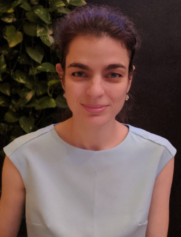
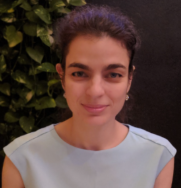
Update organizer images and styles

diff --git a/styles.css b/styles.css
@@ -849,8 +849,30 @@ body {
     width: 100%;
     height: 100%;
     object-fit: cover;
+    object-position: center;
     border-radius: 0;
     display: block;
+}
+
+.organizer-photo-uncropped {
+    object-fit: cover;
+    object-position: center top;
+    background: var(--bg-light);
+}
+
+.organizer-avatar-uncropped {
+    padding: 0;
+    box-sizing: border-box;
+    height: 100%;
+    min-height: 0;
+    align-items: center;
+}
+
+.organizer-avatar-uncropped img {
+    width: 100%;
+    height: 100%;
+    object-fit: cover;
+    object-position: center top;
 }
 
 .organizer-card h3 {
